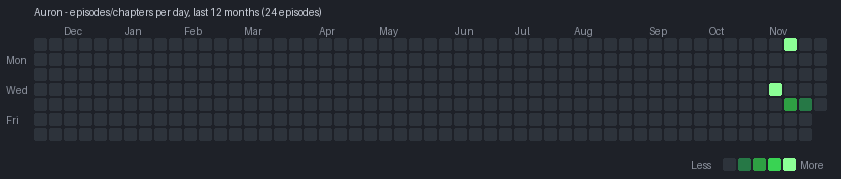
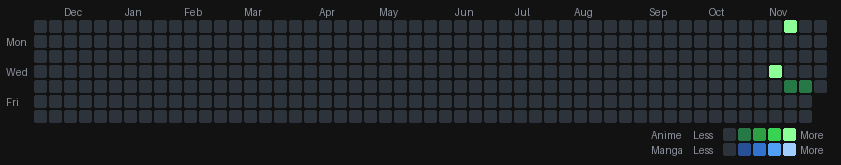
Remove header, match page background, separate manga color, new level thresholds

diff --git a/heatmap.py b/heatmap.py
@@ -60,11 +60,11 @@ def episodes_per_day(store):
     by_item = {}
     for kind, item, num, iso in store.values():
         by_item.setdefault((kind, item), []).append((iso, num))
-    counts = Counter()
-    for rows in by_item.values():
+    counts = {"anime": Counter(), "manga": Counter()}
+    for (kind, _), rows in by_item.items():
         prev = 0
         for iso, num in sorted(rows):
-            counts[iso[:10]] += num - prev if num > prev else 1
+            counts[kind][iso[:10]] += num - prev if num > prev else 1
             prev = num
     return counts
 
@@ -76,30 +76,32 @@ def load_store():
     return {}
 
 
+ANIME = [(38, 120, 70), (46, 160, 67), (57, 211, 83), (140, 255, 150)]   # dark -> lightest
+MANGA = [(40, 80, 150), (50, 115, 205), (80, 160, 245), (160, 205, 255)]
+EMPTY = (45, 51, 59)
+BG = (18, 18, 18)
+LABEL = (140, 146, 158)
+
+
+def level(n):  # 1-2 dark, 3-4 medium, 5-6 bright, 7+ lightest
+    return 0 if n == 0 else 1 if n <= 2 else 2 if n <= 4 else 3 if n <= 6 else 4
+
+
 def render(counts, path):
     end = date.today()
     start = end - timedelta(days=364)
     start -= timedelta(days=(start.weekday() + 1) % 7)  # align to Sunday
     weeks = (end - start).days // 7 + 1
 
-    cell, gap, left, top = 12, 3, 34, 38
+    cell, gap, left, top = 12, 3, 34, 20
     w = left + weeks * (cell + gap) + 12
-    h = top + 7 * (cell + gap) + 36
-    bg = (30, 33, 40, 255)
-    img = Image.new("RGBA", (w, h), bg)
+    h = top + 7 * (cell + gap) + 40
+    img = Image.new("RGB", (w, h), BG)
     d = ImageDraw.Draw(img)
     font = ImageFont.load_default()
 
-    palette = [(45, 51, 59), (38, 120, 70), (46, 160, 67), (57, 211, 83), (140, 255, 150)]
-
-    def level(n):  # fixed thresholds so one busy day doesn't wash out the rest
-        return 0 if n == 0 else 1 if n == 1 else 2 if n <= 3 else 3 if n <= 6 else 4
-
-    d.text((left, 6), f"{USER} - episodes/chapters per day, last 12 months "
-                      f"({sum(v for k, v in counts.items() if k >= start.isoformat())} episodes)",
-           fill=(200, 205, 215), font=font)
     for label, row in (("Mon", 1), ("Wed", 3), ("Fri", 5)):
-        d.text((6, top + row * (cell + gap) + 1), label, fill=(140, 146, 158), font=font)
+        d.text((6, top + row * (cell + gap) + 1), label, fill=LABEL, font=font)
 
     last_month = None
     for i in range(weeks):
@@ -108,19 +110,25 @@ def render(counts, path):
             if day > end:
                 continue
             x, y = left + i * (cell + gap), top + j * (cell + gap)
-            d.rounded_rectangle([x, y, x + cell, y + cell], 2,
-                                fill=palette[level(counts.get(day.isoformat(), 0))])
+            iso = day.isoformat()
+            a, m = counts["anime"].get(iso, 0), counts["manga"].get(iso, 0)
+            # whichever medium has the bigger number wins the day (tie -> anime)
+            color = EMPTY if not (a or m) else (MANGA if m > a else ANIME)[level(max(a, m)) - 1]
+            d.rounded_rectangle([x, y, x + cell, y + cell], 2, fill=color)
             if j == 0 and day.month != last_month and day.day <= 7:
-                d.text((x, top - 13), day.strftime("%b"), fill=(140, 146, 158), font=font)
+                d.text((x, top - 14), day.strftime("%b"), fill=LABEL, font=font)
                 last_month = day.month
 
-    ly = h - 20
-    d.text((w - 150, ly), "Less", fill=(140, 146, 158), font=font)
-    for k, c in enumerate(palette):
-        x = w - 118 + k * (cell + 3)
-        d.rounded_rectangle([x, ly - 1, x + cell, ly - 1 + cell], 2, fill=c)
-    d.text((w - 118 + 5 * (cell + 3) + 2, ly), "More", fill=(140, 146, 158), font=font)
-    img.convert("RGB").save(path)
+    # legend: one row per medium
+    for r, (name, pal) in enumerate((("Anime", ANIME), ("Manga", MANGA))):
+        ly = h - 36 + r * (cell + 3)
+        d.text((w - 190, ly), name, fill=LABEL, font=font)
+        d.text((w - 148, ly), "Less", fill=LABEL, font=font)
+        for k, c in enumerate([EMPTY] + pal):
+            x = w - 118 + k * (cell + 3)
+            d.rounded_rectangle([x, ly - 1, x + cell, ly - 1 + cell], 2, fill=c)
+        d.text((w - 118 + 5 * (cell + 3) + 2, ly), "More", fill=LABEL, font=font)
+    img.save(path)
 
 
 def main():
@@ -132,7 +140,7 @@ def main():
         json.dump(store, f, indent=0, sort_keys=True)
     counts = episodes_per_day(store)
     render(counts, OUT)
-    print(f"{len(store)} updates, {sum(counts.values())} episodes, wrote {OUT}")
+    print(f"{len(store)} updates, anime {sum(counts['anime'].values())}, manga {sum(counts['manga'].values())}, wrote {OUT}")
 
 
 if __name__ == "__main__":
